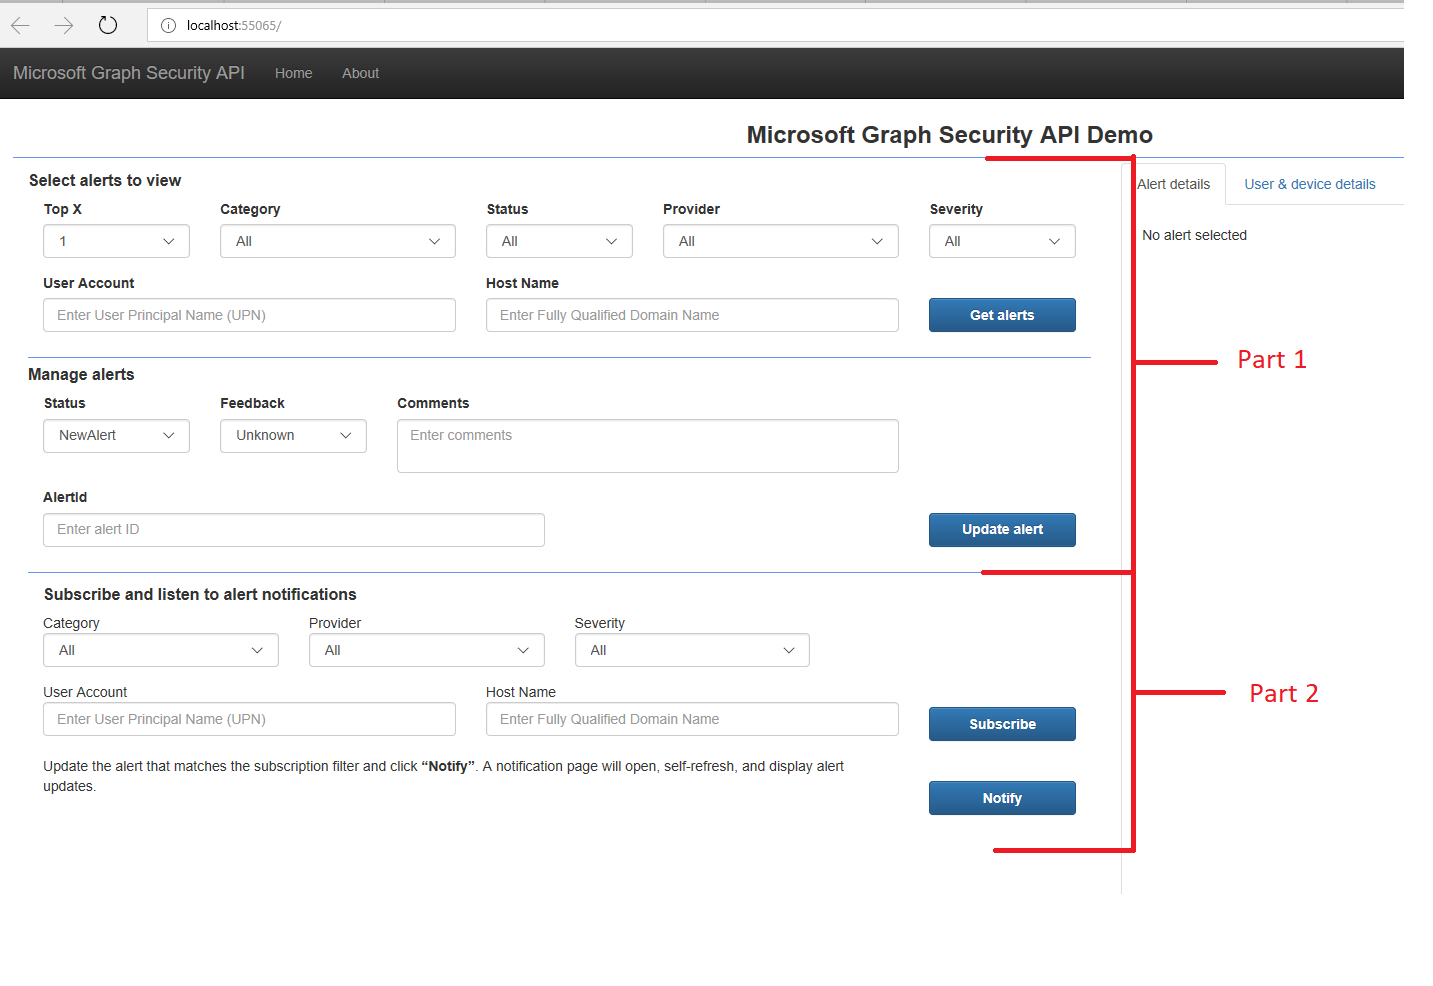
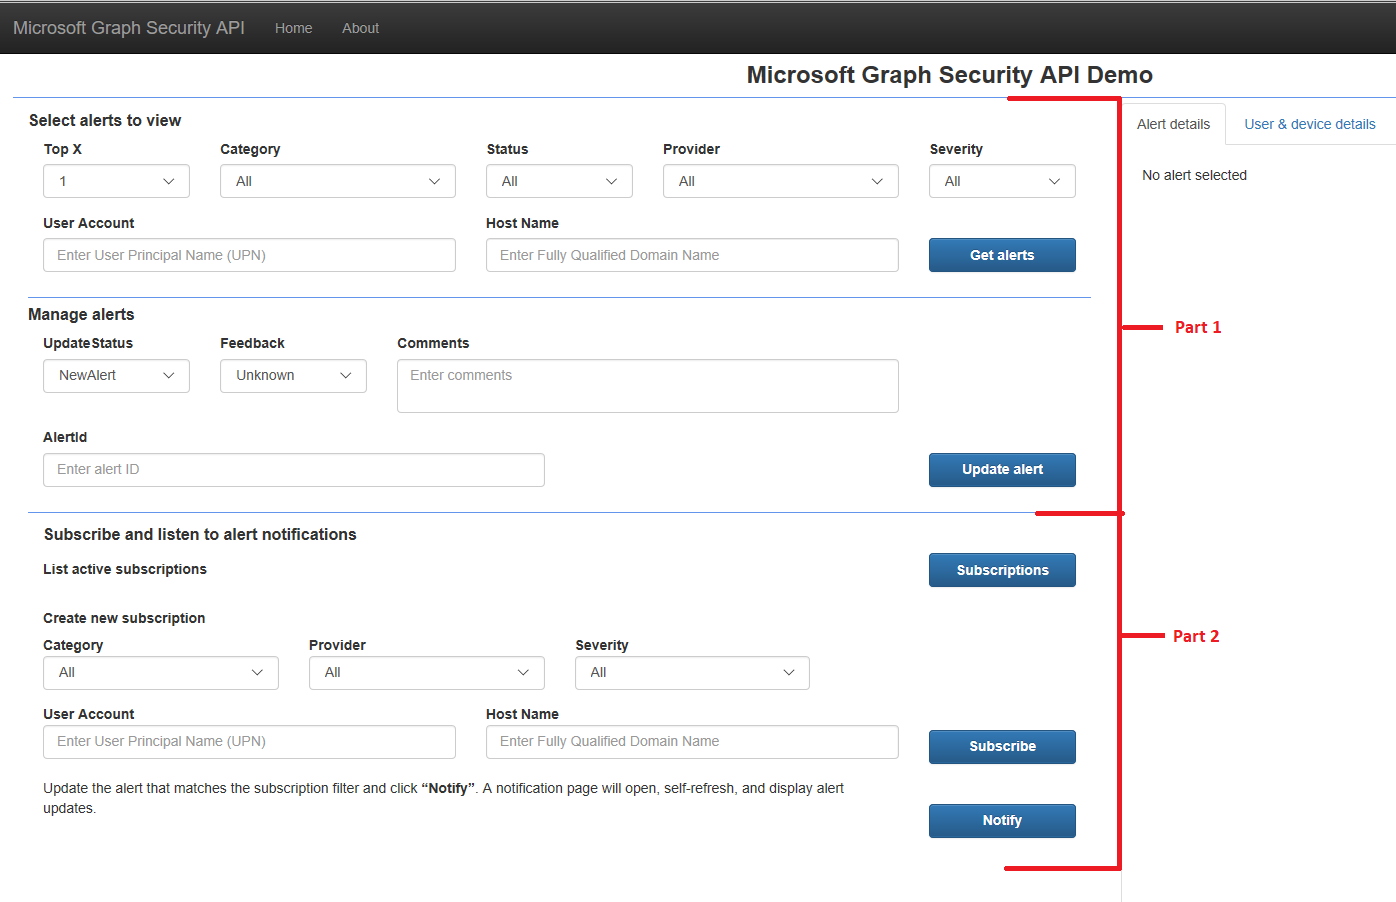
Updating the ReadMe file

diff --git a/MicrosoftGraph_Security_API_Sample/Models/GraphService.cs b/MicrosoftGraph_Security_API_Sample/Models/GraphService.cs
@@ -387,6 +387,11 @@ namespace MicrosoftGraph_Security_API_Sample.Models
             return await graphClient.Subscriptions.Request().AddAsync(subscription);
         }
 
+        /// <summary>
+        /// List exisiting active subscriptions for this application
+        /// </summary>
+        /// <param name="filters"></param>
+        /// <returns>The subscription collection page</returns>
         public async Task<IGraphServiceSubscriptionsCollectionPage> ListSubscriptions()
         {
             try

diff --git a/MicrosoftGraph_Security_API_Sample/Controllers/HomeController.cs b/MicrosoftGraph_Security_API_Sample/Controllers/HomeController.cs
@@ -22,7 +22,7 @@ namespace MicrosoftGraph_Security_API_Sample.Controllers
     public class HomeController : Controller
     {
         GraphService graphService = new GraphService();
-        private List<string> userScopesList = new List<string>();
+        private static List<string> userScopesList = new List<string>();
 
         private AlertFilter AlertFilters
         {

diff --git a/README.md b/README.md
@@ -37,9 +37,10 @@ This sample requires the following:
  2. The sample consists of two parts as shown in the picture below.
 
   Part 1 : **Get alerts and Manage alert**
+
   Part 2 :  **Subscribe and listen to the notifications**
 
-![Scope consent dialog](readme-images/Webapp.PNG)
+![Home page](readme-images/Webapp.PNG)
 
 ## Register the application
 
@@ -75,14 +76,14 @@ Note: you will not be able to view the secret again in this interface.
 1. Provide your Administrator the **Application Id** and the **Redirect URI** that you used in the previous steps. The organization’s Azure Active Directory Tenant Administrator is required to grant the required consent (permissions) to the application.
 2.	As the Tenant Administrator for your organization, open a browser window and paste the following URL in the address bar (after adding values for APPLICATION_ID and REDIRECT_URL):
 https://login.microsoftonline.com/common/adminconsent?client_id=APPLICATION_ID&state=12345&redirect_uri=REDIRECT_URL.
-3.	After authenticating, the Tenant Administrator will be presented with a dialog like the following (depending on the permissions the application is requesting):
+3.	After authenticating, the Tenant Administrator will be presented with a dialog like the following (depending on the permissions the application is requesting)
 
- 	![Scope consent dialog](readme-images/Scope.PNG)
+     >![Scope consent dialog](readme-images/Scope.PNG)
 
-3. By clicking on "Accept" in this dialog, the Tenat Administrator is granting consent to all users of this organization to use this application. 
+4. By clicking on "Accept" in this dialog, the Tenant Administrator is granting consent to all users of this organization to use this application. 
 Note: Because there is no application currently running at the redirect URL you will be receive an error message. This behavior is expected. The Tenant Administrator consent will have been granted by the time this error page is shown.
 
-  ![Scope consent dialog](readme-images/GrantError.png)
+     >![Scope consent dialog](readme-images/GrantError.png)
 
 ### Authorize users in your organization to access the Microsoft Graph security API (Assign required Azure role)
 
@@ -101,7 +102,7 @@ This section describes how the Tenant Administrator can authorize specific users
 
 6. Select the **Limited Administrator** radio button and select the check box next to **Security administrator** role
 
-     ![Role consent dialog](readme-images/SecurityRole.png)
+     >  ![Role consent dialog](readme-images/SecurityRole.png)
 
 7. Click the **Save** button at the top of the page
 
@@ -118,15 +119,22 @@ Replace the **ida:RedirectUri** placeholder value with the redirect url that you
 
 3. Sign in with your work or school account and grant the requested permissions.
 
-4. Select alerts to view by defining filtering criteria and click on the **Get alerts** button. When the operation completes, the alerts matching your filtering criteria will be displayed on the page. The SDK query and REST query used to make the call are also displayed. 
+4. If your application doesn't have proper scopes or if you haven't followed the previous steps properly, you will see the following page.
+
+     >![Admin consent dialog](readme-images/AdminConsent.PNG)
+
+   >Follow the links for more information and try again. Once your application has proper scope and admin consent, the home page will be displayed.
+
+5. Select alerts to view by defining filtering criteria and click on the **Get alerts** button. When the operation completes, the alerts matching your filtering criteria will be displayed on the page. The SDK query and REST query used to make the call are also displayed. 
 Clicking on the REST query link will open a new tab with the **Graph Explorer** pre-populated with your query.
     >Note: The application is retrieving security alerts from your tenant that match the filter criteria. If there are no matching security alerts from the listed providers, "No matching alerts" will be displayed in the response section. To generate sample alerts from Azure Security Center please see [Security Center Alert Validation](https://docs.microsoft.com/en-us/azure/security-center/security-center-alert-validation) 
 
-5. In the list of matching alerts, click on the **Title** of a specific alert you want to view. The complete alert details (JSON) will be displayed in the **Alert Details** tab on the right side of the webpage. If the alert contains the **user principal name** or **fully qualified domain name** properties, the application will make an additional call to Azure Actove Directory via the Microsoft Graph API to retrieve additional details about the user account and the device. Click on **User & device details** tab to view additional user and device data, if it exists. 
+6. In the list of matching alerts, click on the **Title** of a specific alert you want to view. The complete alert details (JSON) will be displayed in the **Alert Details** tab on the right side of the webpage. If the alert contains the **user principal name** or **fully qualified domain name** properties, the application will make an additional call to Azure Actove Directory via the Microsoft Graph API to retrieve additional details about the user account and the device. Click on **User & device details** tab to view additional user and device data, if it exists. 
 
-6. To update an alert, enter the Alert ID, choose/enter values for the editable properties, and click on the **Update Alert** button. The **Original alert details** and **Updated alert details** are displayed on the **Alert management** tab on the right side of the webpage.
+7. To update an alert, enter the Alert ID, choose/enter values for the editable properties, and click on the **Update Alert** button. The **Original alert details** and **Updated alert details** are displayed on the **Alert management** tab on the right side of the webpage.
+   > Note: In order to update an alert, your application needs to have **Security.ReadWrite.All** permission.
 
-7. To use **Subscribe and listen to alert notifications** section, follow the following steps to configure the sample **Notification Listener**.
+8. To use **Subscribe and listen to alert notifications** section, follow the following steps to configure the sample **Notification Listener**.
 
 ## Configure the sample Notification Listener (Part 2).
 
@@ -139,7 +147,7 @@ You can use the ngrok web interface (http://127.0.0.1:4040) to inspect the HTTP 
 
 1. Copy the **URL** port number from the **Properties** window. If the **Properties** window isn't dsplayed, choose **View > Properties Window**. 
 
-	![The URL port number in the Properties window](readme-images/ngrok.JPG)
+	 >![The URL port number in the Properties window](readme-images/ngrok.JPG)
 
 2. [Download ngrok](https://ngrok.com/download) for Windows.  
 
@@ -149,11 +157,11 @@ You can use the ngrok web interface (http://127.0.0.1:4040) to inspect the HTTP 
 
    `ngrok http {port-number} -host-header=localhost:{port-number}`
 
-	![Example command to run in the ngrok console](readme-images/ngrok1.PNG)
+	  >![Example command to run in the ngrok console](readme-images/ngrok1.PNG)
 
 5. Copy the HTTPS URL displayed in the console. You'll use this to configure your notification URL in the sample.
 
-	![The forwarding HTTPS URL in the ngrok console](readme-images/ngrok2.PNG)
+	  >![The forwarding HTTPS URL in the ngrok console](readme-images/ngrok2.PNG)
 
    >Keep the console open while testing. If you close it, the tunnel will also be closed, and you'll need to generate a new URL and update the sample.
 
@@ -173,15 +181,19 @@ See [Hosting without a tunnel](https://github.com/microsoftgraph/nodejs-webhooks
    
 3. Press F5 to build and run the sample.
 
-4. In the **Subscribe and listen to alert notifications** section, select the alert filters to be notified about and click on the **Subscribe** button. If the subscription is created successfully, you will see the details of the Subscription object under the **Subscription details** tab on the right side of the webpage.
+4. In the **Subscribe and listen to alert notifications** section, click the button **Subscriptions** in order to see the active subscriptions for this application. If there aren't any active subscriptions, the **Subscription details** tab on the right hand side of the web page displays a message saying **No  active subscriptions**. Else it displays the list of all the active subscriptions with details including Subscription ID, Resource URL and Expiration date time for that application.  
 
-5. Click on the **Notify** button that will open a new tab. This page will display notifications as they are received.
+   >![Active subscriptions](readme-images/ActiveSubscriptions.PNG)
 
-6. Go to the original webpage and update an alert matching on the subscription filtering criteria you defined. When the alert is updated, the notification page will recieve and display the notification details, looking like this: 
+5. In order to create a new subscription, select the alert filters to be notified about and click on the **Subscribe** button. If the subscription is created successfully, you will see the details of the Subscription object under the **Subscription details** tab on the right side of the webpage.
 
-    ![Notification Listener page](readme-images/NotificationPage.JPG)
+6. Click on the **Notify** button that will open a new tab. This page will display notifications as they are received.
 
-7. Next steps: Check out the [Microsoft Graph Snippets Sample for ASP.NET 4.6](https://github.com/microsoftgraph/aspnet-snippets-sample) to see additional examples of common Microsoft Graph operations.
+7. Go to the original webpage and update an alert matching on the subscription filtering criteria you defined. When the alert is updated, the notification page will recieve and display the notification details, looking like this: 
+
+    >![Notification Listener page](readme-images/NotificationPage.JPG)
+
+8. Next steps: Check out the [Microsoft Graph Snippets Sample for ASP.NET 4.6](https://github.com/microsoftgraph/aspnet-snippets-sample) to see additional examples of common Microsoft Graph operations.
 
 ## Deploy the sample to Azure
 
@@ -253,6 +265,7 @@ Contains methods (called by HomeController) that build and send REST calls to th
    - The **GetUserDetails** action gets the user's details filtered by the user principal name in the alert details.
    - The **GetDeviceById** action gets the device details filtered by the fully qualified domain name (fqdn) in the alert details.
    - The **Subscribe** action creates a subscription according to the subscription filters.
+  - The **ListSubscriptions** action gets all the active subscriptions for the application.
 
 - [Graph.cshtml](MicrosoftGraph_Security_API_Sample/Views/Home/Graph.cshtml). 
 Contains the sample's UI. 
